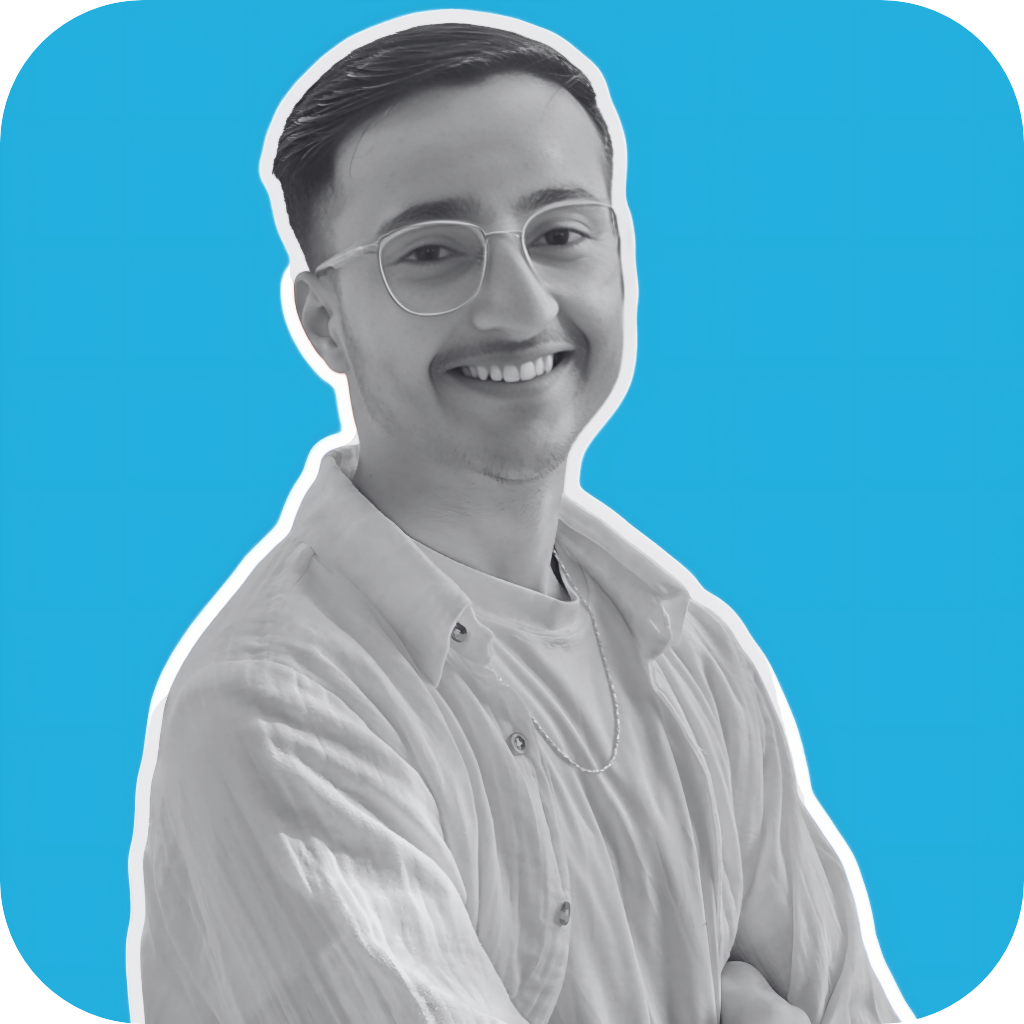
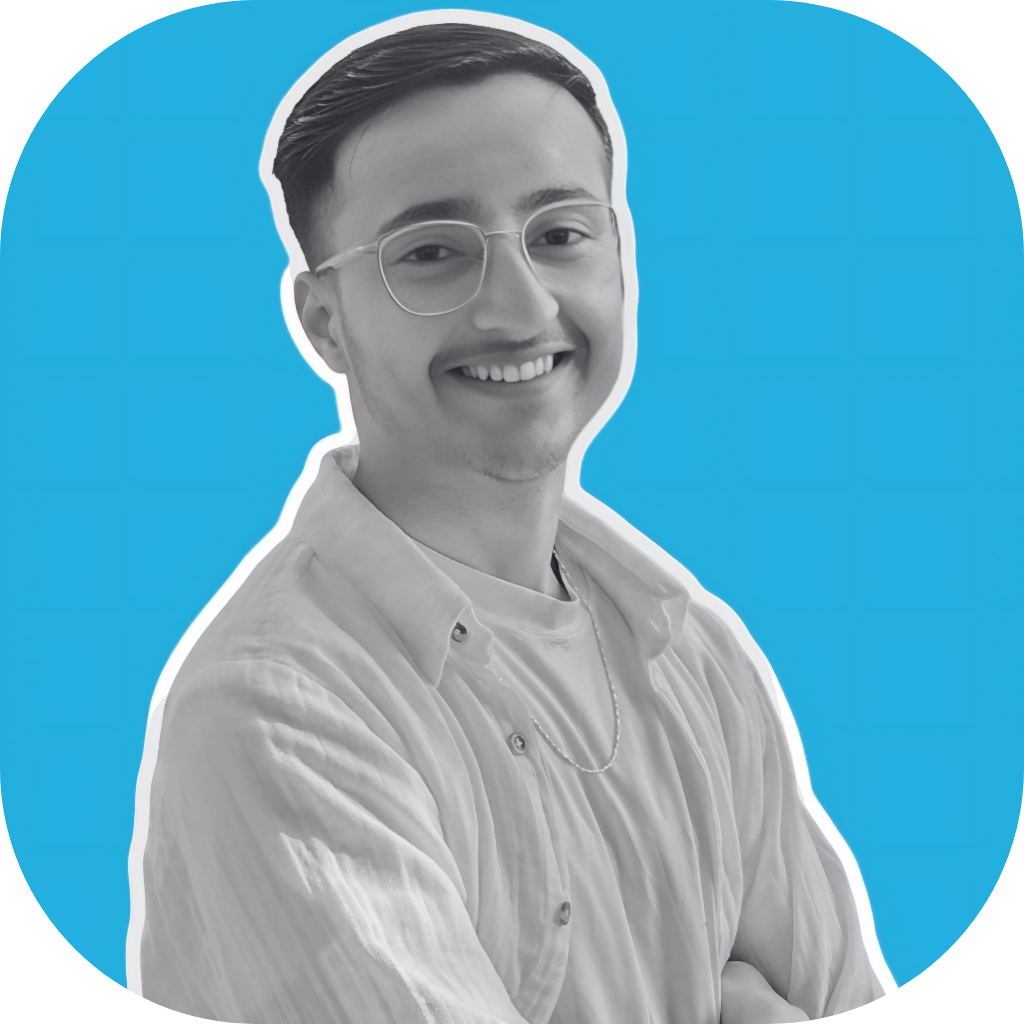
Updated: image

diff --git a/README.md b/README.md
@@ -4,9 +4,9 @@
 
 # 🙏🏻 नमस्कार • Hello • Hi! 👋🏻
 
-<img src="./assets/SakshamJoshi-bw-rounded-corner.png" alt="Saksham Joshi" width="200" style="border-radius: 25%" border="4px solid #23afe0"/>
+<img src="./assets/SakshamJoshi-bw-rounded-corner.png" alt="Saksham Joshi" width="200"/>
 
-### Software Developer | Self-Taught | Enjoys Coding
+### Software Engineer | Self-Taught | Enjoys Coding
 
 [![Portfolio](https://img.shields.io/badge/Portfolio-Visit-0969da?style=flat-square&logo=google-chrome&logoColor=white)](https://sakshamjoshi.vercel.app)
 [![LinkedIn](https://img.shields.io/badge/LinkedIn-Connect-0077B5?style=flat-square&logo=linkedin&logoColor=white)](https://www.linkedin.com/in/sakshamjoshi27/)
